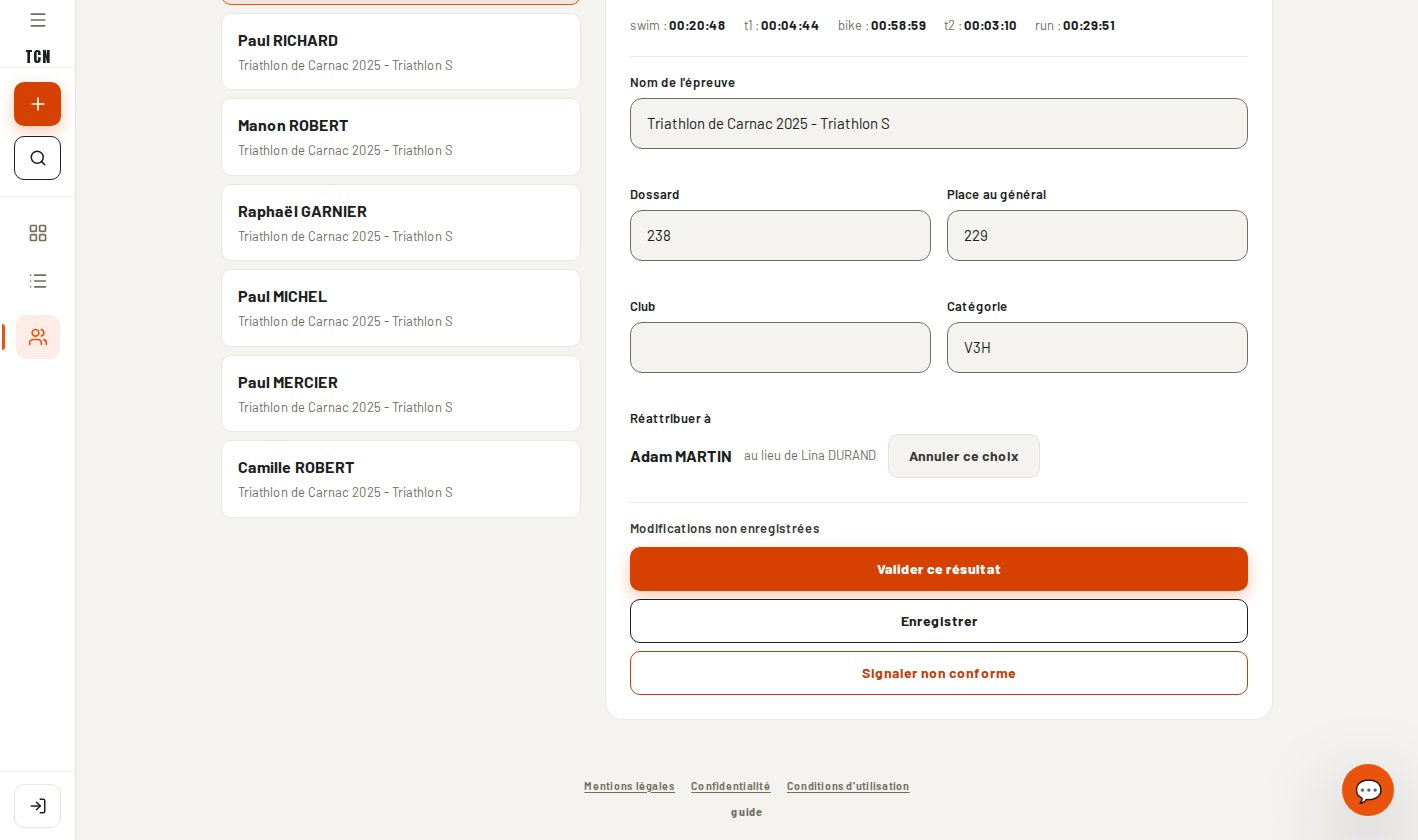
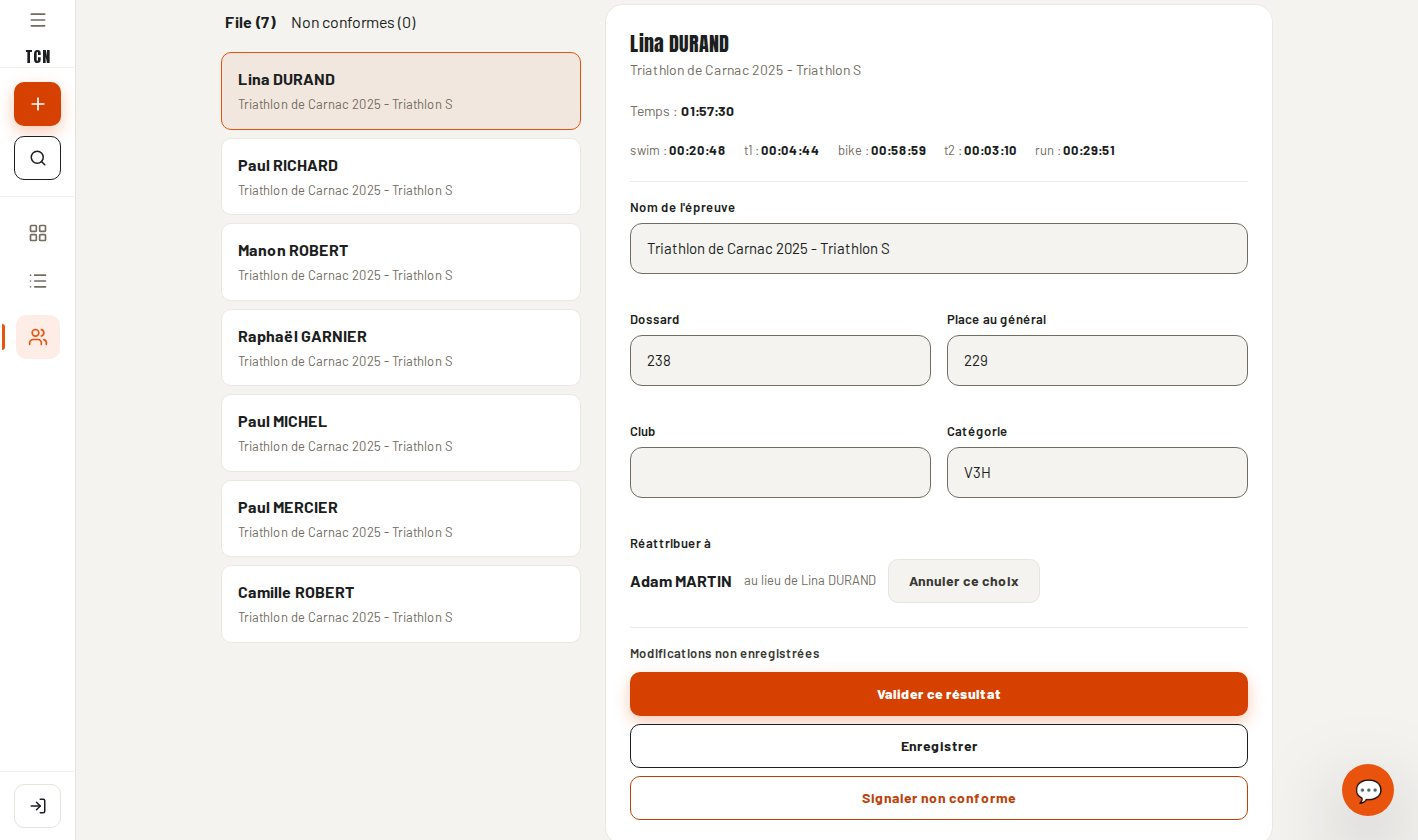
fix(guide): address UI/UX review of the results verification section
Split the report step, reuse the screen's own words (enregistré, Lever
le signalement, modifications perdues), describe the capture as a
pending change, and reframe it on the panel header and queue tabs.

Refs #1162

diff --git a/frontend/components/guide/guide-content.admin.ts b/frontend/components/guide/guide-content.admin.ts
@@ -159,13 +159,14 @@ export const GUIDE_ADMIN: GuideSection[] = [
     etapes: [
       "Ouvrir « Validation des épreuves » depuis la navigation, puis saisir le mot de passe bénévoles.",
       "Choisir un résultat dans la file : son détail s'ouvre.",
-      "« Réattribuer à » : rechercher l'athlète par son nom et le choisir quand le résultat est crédité à la mauvaise fiche. Rien n'est écrit tant que vous n'avez pas cliqué sur « Enregistrer » ou « Valider ce résultat ».",
-      "« Valider ce résultat » enregistre les modifications en cours et passe au suivant. « Signaler non conforme », puis « Confirmer le signalement », l'écarte dans l'onglet « Non conformes » jusqu'à ce qu'on lève le signalement, sans enregistrer les modifications en cours.",
+      "« Réattribuer à » : rechercher l'athlète par son nom et le choisir quand le résultat est crédité à la mauvaise fiche. Rien n'est enregistré tant que vous n'avez pas cliqué sur « Enregistrer » ou « Valider ce résultat ».",
+      "« Valider ce résultat » enregistre les modifications en cours et passe au suivant.",
+      "« Signaler non conforme », puis « Confirmer le signalement » : le résultat passe dans l'onglet « Non conformes », d'où « Lever le signalement » le fait revenir. Les modifications non enregistrées sont perdues.",
     ],
     captures: [
       {
         src: "/guide/admin/validation-epreuves.jpg",
-        alt: "Résultat en cours de vérification, réattribué à un autre athlète dans « Réattribuer à »",
+        alt: "Résultat en cours de vérification : un autre athlète choisi dans « Réattribuer à », modification pas encore enregistrée",
       },
     ],
   },
